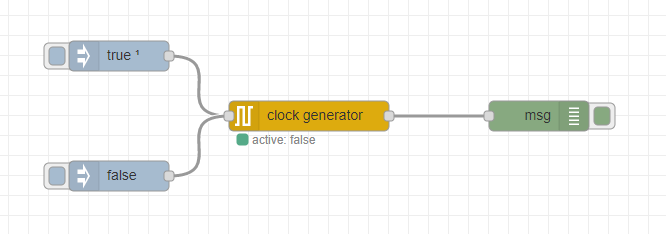
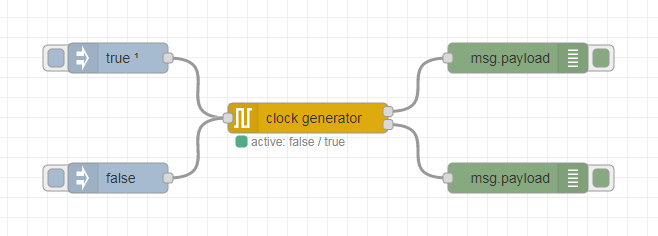
Second output delivers inverted signal

diff --git a/clock-generator.js b/clock-generator.js
@@ -1,72 +1,50 @@
-module.exports = function( RED ) {
-
-	function ClockGenerator( config ) {
+module.exports = RED => {
+	RED.nodes.registerType( 'clock-generator', function ClockGenerator( config ) {
 		RED.nodes.createNode( this, config );
-		const node = this;
 
 		let timeout;
 		let timestamp = 0;
 
-		function start() {
+		const getPayload = status => config.output === '1' ? !status ? false : true : !status ? 0 : 1;
+
+		const start = () => {
 			if( timestamp === 0 ) {
 				timestamp = new Date().getTime();
 				update( true );
 			}
-		}
+		};
 
-		function stop() {
+		const stop = () => {
 			if( timestamp !== 0 ) {
 				timestamp = 0;
 				update( false );
 			}
-		}
+		};
 
-		function update( status ) {
+		const update = status => {
 			msg = {
-				name: config.name,
-				topic: config.topic,
-				timestamp: new Date().getTime()
+				name:		config.name,
+				topic:		config.topic,
+				timestamp:	new Date().getTime(),
+				payload:	getPayload( status )
 			};
 
-			switch( config.output ) {
-
-				case '1':
-					msg.payload = !status ? false : true;
-					break;
-
-				case '2':
-					msg.payload = !status ? 0 : 1;
-					break;
-
-			}
-
-			node.send( msg );
+			this.send( [ msg, { ...msg, payload: getPayload( !status ) } ] );
 
 			if( timestamp !== 0 ) {
-				timestamp += config.period * 500;
-				timeout = setTimeout( () => {
-					update( !status );
-				}, timestamp - msg.timestamp );
+				while( timestamp <= msg.timestamp ) timestamp += config.period * 500;
+				timeout = setTimeout( update, timestamp - msg.timestamp, !status );
 
-				node.status( { fill: 'green', shape: 'dot', text: 'active: ' + msg.payload } );
+				this.status( { fill: 'green', shape: 'dot', text: `active: ${ msg.payload } / ${ getPayload( !status ) }` } );
 			} else {
 				clearTimeout( timeout );
-				node.status( { fill: 'grey', shape: 'dot', text: 'inactive' } );
+				this.status( { fill: 'grey', shape: 'dot', text: 'inactive' } );
 			}
-		}
+		};
 
-		node.status( { fill: 'grey', shape: 'dot', text: 'inactive' } );
+		this.status( { fill: 'grey', shape: 'dot', text: 'inactive' } );
 
-		node.on( 'input', msg => {
-			if( msg.payload ) {
-				start();
-			} else {
-				stop();
-			}
-		} );
-
-		node.on( 'close', stop );
-	}
-
-	RED.nodes.registerType( 'clock-generator', ClockGenerator );
-}
+		this.on( 'input', msg => msg.payload ? start() : stop() );
+		this.on( 'close', stop );
+	} );
+};

diff --git a/clock-generator.html b/clock-generator.html
@@ -9,7 +9,9 @@
 			output: { value: '1' }
 		},
 		inputs: 1,
-		outputs: 1,
+		inputLabels: 'input',
+		outputs: 2,
+		outputLabels: [ 'output', 'inverted output' ],
 		color: '#ddab0e',
 		icon: 'serial.png',
 		paletteLabel: 'clock generator',
@@ -61,9 +63,11 @@
 	</p>
 	<p>
 		The <b>Output</b> parameter specifies the data type of <code>msg.payload</code> in an outgoing message.
-		You can choose between <code>0</code> / <code>false</code> and <code>1</code> / <code>true</code>.
+		You can choose between <code>0</code> / <code>false</code> and <code>1</code> / <code>true</code>. A second output
+		delivers an inverted signal.
 	</p>
 	<p>
-		The outgoing message also contains <code>msg.timestamp</code>, which specifies the time of the status change in milliseconds since 1.1.1970.
+		The outgoing message also contains <code>msg.timestamp</code>, which specifies the time of the status change in
+		milliseconds since 1.1.1970.
 	</p>
 </script>

diff --git a/README.md b/README.md
@@ -7,6 +7,7 @@ Features:
 - Controllable by incoming messages
 - Period duration adjustable
 - Format of outgoing messages configurable
+- Second output with inverted signal
 
 ## Installation
 
